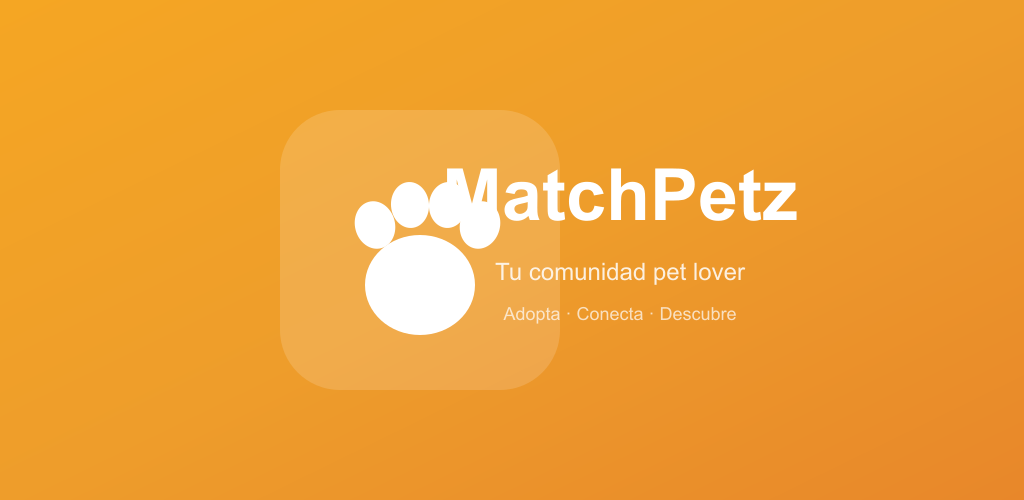
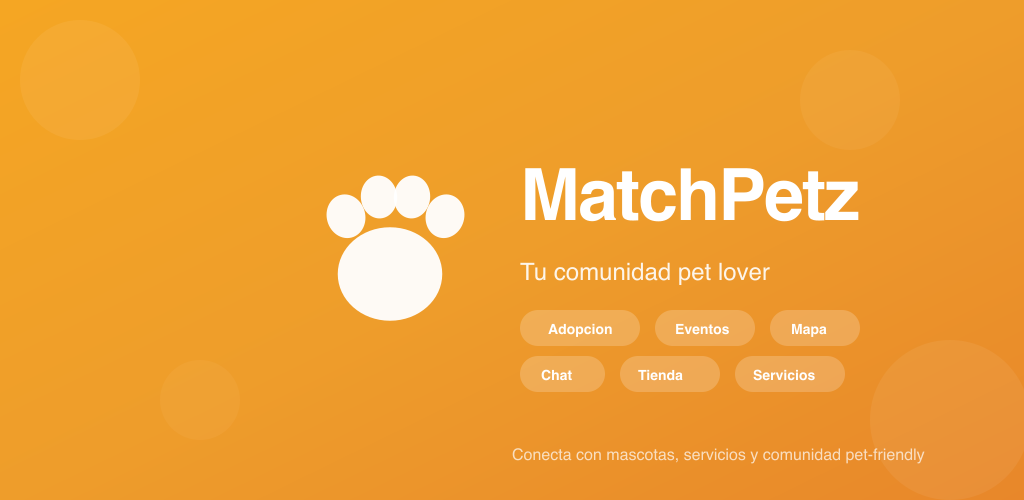
Add account deletion page and final build for Play Store
- Create /delete-account.html for GDPR/LFPDPPP compliance
- Steps, ARCO rights, email-based deletion flow
- Feature graphic 1024x500 for Play Store listing
- Build verified, AAB and APK generated v1.0.0

Changed region(s): [[0.25, 0.21, 0.8438, 0.81], [0.5, 0.9, 0.9062, 0.93]]

diff --git a/public/delete-account.html b/public/delete-account.html
@@ -1,0 +1,141 @@
+<!DOCTYPE html>
+<html lang="es">
+<head>
+    <meta charset="UTF-8">
+    <meta name="viewport" content="width=device-width, initial-scale=1.0">
+    <title>Eliminar cuenta — MatchPetz</title>
+    <link rel="icon" type="image/png" sizes="32x32" href="/favicon.png">
+    <style>
+        * { margin: 0; padding: 0; box-sizing: border-box; }
+        body { font-family: -apple-system, BlinkMacSystemFont, 'Segoe UI', sans-serif; background: #f9fafb; color: #1a1a1a; line-height: 1.7; }
+        .header { background: linear-gradient(135deg, #f5a623, #e8872a); padding: 2rem 1.5rem; text-align: center; color: #fff; }
+        .header img { width: 48px; height: 48px; border-radius: 12px; margin-bottom: 0.5rem; }
+        .header h1 { font-size: 1.5rem; font-weight: 700; }
+        .header p { opacity: 0.9; font-size: 0.9rem; margin-top: 0.25rem; }
+        .container { max-width: 600px; margin: 0 auto; padding: 2rem 1.5rem 4rem; }
+        .card { background: #fff; border-radius: 16px; padding: 1.5rem; box-shadow: 0 2px 12px rgba(0,0,0,0.06); margin-bottom: 1.5rem; }
+        .card h2 { font-size: 1.15rem; margin-bottom: 0.75rem; color: #1a1a1a; }
+        .card p, .card li { font-size: 0.92rem; color: #555; margin-bottom: 0.5rem; }
+        .card ul { padding-left: 1.25rem; margin-bottom: 1rem; }
+        .card ul li { margin-bottom: 0.4rem; }
+        .warning { background: #fef3cd; border-left: 4px solid #ffc107; padding: 1rem 1.25rem; border-radius: 0 12px 12px 0; margin-bottom: 1.5rem; font-size: 0.9rem; color: #664d03; }
+        .steps { counter-reset: step; }
+        .step { display: flex; gap: 1rem; margin-bottom: 1.25rem; align-items: flex-start; }
+        .step-num { counter-increment: step; width: 32px; height: 32px; border-radius: 50%; background: #ee9d2b; color: #fff; display: flex; align-items: center; justify-content: center; font-weight: 700; font-size: 0.85rem; flex-shrink: 0; }
+        .step-num::before { content: counter(step); }
+        .step-body h3 { font-size: 0.95rem; font-weight: 600; margin-bottom: 0.15rem; }
+        .step-body p { font-size: 0.88rem; color: #666; }
+        .email-btn { display: inline-block; background: #ee9d2b; color: #fff; text-decoration: none; padding: 0.85rem 2rem; border-radius: 50px; font-weight: 700; font-size: 1rem; margin-top: 0.5rem; text-align: center; }
+        .email-btn:hover { background: #d88a1f; }
+        .footer { text-align: center; padding: 2rem 1rem; color: #999; font-size: 0.8rem; border-top: 1px solid #eee; }
+        .footer a { color: #ee9d2b; text-decoration: none; }
+        .badge { display: inline-block; background: #fee2e2; color: #dc2626; font-size: 0.75rem; font-weight: 600; padding: 0.2rem 0.6rem; border-radius: 8px; margin-left: 0.25rem; }
+    </style>
+</head>
+<body>
+
+<div class="header">
+    <img src="/logo.png" alt="MatchPetz">
+    <h1>Solicitud de eliminacion de cuenta</h1>
+    <p>MatchPetz — Proteccion de datos personales</p>
+</div>
+
+<div class="container">
+
+    <div class="card">
+        <h2>Tu privacidad es importante</h2>
+        <p>En MatchPetz respetamos tu derecho a la proteccion de datos personales conforme a la Ley Federal de Proteccion de Datos Personales en Posesion de los Particulares (LFPDPPP).</p>
+        <p>Puedes solicitar la eliminacion completa de tu cuenta y todos los datos asociados en cualquier momento.</p>
+    </div>
+
+    <div class="warning">
+        <strong>Importante:</strong> La eliminacion de cuenta es permanente e irreversible. Todos tus datos, publicaciones, conversaciones, mascotas registradas y notificaciones seran eliminados.
+    </div>
+
+    <div class="card">
+        <h2>Datos que se eliminaran <span class="badge">Permanente</span></h2>
+        <ul>
+            <li>Perfil de usuario (nombre, foto, ubicacion)</li>
+            <li>Mascotas registradas y publicaciones de adopcion</li>
+            <li>Alertas de mascotas perdidas</li>
+            <li>Conversaciones y mensajes</li>
+            <li>Resenas y comentarios</li>
+            <li>Historial de eventos e inscripciones</li>
+            <li>Productos publicados en marketplace</li>
+            <li>Roles de negocio y citas</li>
+            <li>Notificaciones y tokens de push</li>
+            <li>Cualquier otro dato asociado a tu cuenta</li>
+        </ul>
+    </div>
+
+    <div class="card">
+        <h2>Como solicitar la eliminacion</h2>
+        <div class="steps">
+            <div class="step">
+                <div class="step-num"></div>
+                <div class="step-body">
+                    <h3>Envia un correo</h3>
+                    <p>Escribe a <strong>contacto@matchpetz.com</strong> desde el correo registrado en tu cuenta.</p>
+                </div>
+            </div>
+            <div class="step">
+                <div class="step-num"></div>
+                <div class="step-body">
+                    <h3>Incluye en el asunto</h3>
+                    <p>"Solicitud de eliminacion de cuenta — [tu email de registro]"</p>
+                </div>
+            </div>
+            <div class="step">
+                <div class="step-num"></div>
+                <div class="step-body">
+                    <h3>Verificacion de identidad</h3>
+                    <p>Confirmaremos tu identidad respondiendo al correo registrado.</p>
+                </div>
+            </div>
+            <div class="step">
+                <div class="step-num"></div>
+                <div class="step-body">
+                    <h3>Procesamiento</h3>
+                    <p>Tu cuenta y datos seran eliminados en un plazo maximo de <strong>30 dias habiles</strong> conforme a la LFPDPPP.</p>
+                </div>
+            </div>
+        </div>
+
+        <div style="text-align: center; margin-top: 1rem;">
+            <a href="mailto:contacto@matchpetz.com?subject=Solicitud%20de%20eliminacion%20de%20cuenta&body=Solicito%20la%20eliminacion%20completa%20de%20mi%20cuenta%20y%20datos%20personales%20en%20MatchPetz.%0A%0ACorreo%20registrado%3A%20%0A%0AGracias." class="email-btn">
+                Enviar solicitud por correo
+            </a>
+        </div>
+    </div>
+
+    <div class="card">
+        <h2>Derechos ARCO</h2>
+        <p>Conforme a la LFPDPPP, tienes derecho a:</p>
+        <ul>
+            <li><strong>Acceso:</strong> Conocer que datos tenemos sobre ti</li>
+            <li><strong>Rectificacion:</strong> Corregir datos inexactos</li>
+            <li><strong>Cancelacion:</strong> Solicitar la eliminacion de tus datos</li>
+            <li><strong>Oposicion:</strong> Oponerte al tratamiento de tus datos</li>
+        </ul>
+        <p>Para ejercer cualquiera de estos derechos, contactanos en <strong>contacto@matchpetz.com</strong></p>
+    </div>
+
+    <div class="card">
+        <h2>Tiempo de retencion</h2>
+        <p>Tras la solicitud de eliminacion:</p>
+        <ul>
+            <li>Tu cuenta se desactiva inmediatamente</li>
+            <li>Tus datos se eliminan en maximo 30 dias habiles</li>
+            <li>Algunos datos pueden conservarse por obligacion legal (transacciones fiscales) por el plazo legalmente requerido</li>
+        </ul>
+    </div>
+
+</div>
+
+<div class="footer">
+    <p>&copy; 2025 MatchPetz — <a href="/legal.html#terminos">Terminos</a> · <a href="/legal.html#privacidad">Privacidad</a></p>
+    <p style="margin-top: 0.5rem;">contacto@matchpetz.com</p>
+</div>
+
+</body>
+</html>
